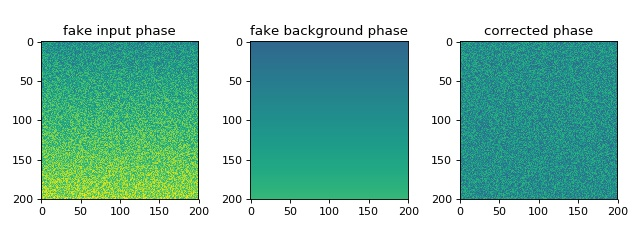
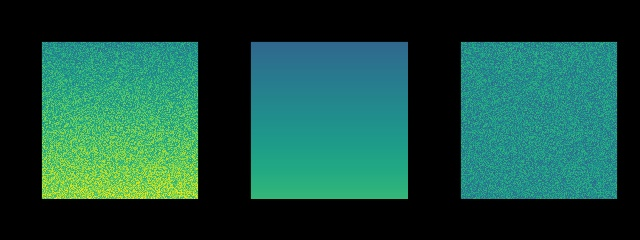
update doc

diff --git a/docs/extensions/include_doc_code_img.py b/docs/extensions/include_doc_code_img.py
@@ -55,8 +55,8 @@ class IncludeDirective(Directive):
         
         # documentation
         rst = ViewList()
-        for ii, line in enumerate(doc):
-            rst.append(line, "fakefile.rst", ii)
+        for line in doc:
+            rst.append(line, "fakefile.rst")
         
         # image
         for ext in [".png", ".jpg"]:
@@ -69,13 +69,12 @@ class IncludeDirective(Directive):
             rst.append(".. figure:: {}".format(image_path), "fakefile.rst", 1)
         
         # code
-        rst.append("", "fakefile.rst", ii+2)
-        rst.append(".. code-block:: python", "fakefile.rst", ii+3)
-        rst.append("   :linenos:", "fakefile.rst", ii+4)
-        rst.append("", "fakefile.rst", ii+5)
-        nn = ii+6
-        for jj, line in enumerate(code):
-            rst.append("   {}".format(line), "fakefile.rst", jj+nn)
+        rst.append("", "fakefile.rst")
+        rst.append(".. code-block:: python", "fakefile.rst")
+        rst.append("   :linenos:", "fakefile.rst")
+        rst.append("", "fakefile.rst")
+        for line in code:
+            rst.append("   {}".format(line), "fakefile.rst")
         
         # Create a node.
         node = nodes.section()

diff --git a/examples/simple_phase.py b/examples/simple_phase.py
@@ -1,9 +1,10 @@
 """Simple phase
 
-This example illustrates the simple usage of the :py:class:`QPImage`
-class for reading and managing quantitative phase data. The attribute
-`QPImage.pha` yields the background-corrected phase data and the
-attribute `QPImage.bg_pha` yields the background phase image. 
+This example illustrates the simple usage of the
+:py:class:`qpimage.QPImage` class for reading and managing
+quantitative phase data. The attribute ``QPImage.pha`` yields
+the background-corrected phase data and the attribute 
+``QPImage.bg_pha`` yields the background phase image. 
 """
 import matplotlib.pylab as plt
 import numpy as np

diff --git a/examples/gererate_example_images.py b/examples/gererate_example_images.py
@@ -3,6 +3,9 @@ import os.path as op
 import sys
 
 import matplotlib.pylab as plt
+from matplotlib import rcParams
+
+rcParams["savefig.facecolor"] = "none"
 
 thisdir = op.dirname(op.abspath(__file__))
 sys.path.insert(0, op.dirname(thisdir))
